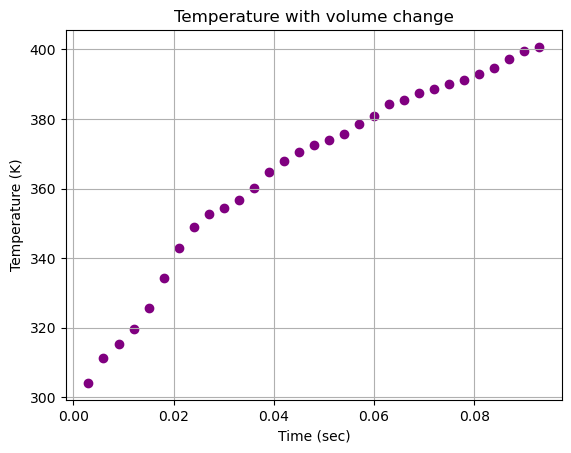
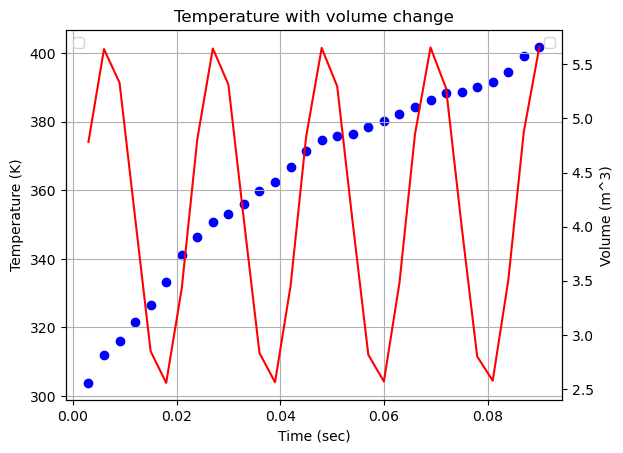
modify the temperature experiment

diff --git a/ideal_gas.py b/ideal_gas.py
@@ -3,7 +3,7 @@ import numpy as np
 import time
 import math
 import tkinter as tk
-ti.init(arch=ti.cpu)  # Alternatively, ti.init(arch=ti.cpu), ti.init(arch=ti.vulkan)
+ti.init(arch=ti.vulkan)  # Alternatively, ti.init(arch=ti.cpu), ti.init(arch=ti.vulkan)
 
 from src.particles_motion import particle_motion, particle_collision, border_collisions, emit_from_drain
 from src.particle_source import add_diffusion_particles
@@ -84,7 +84,7 @@ T_actual = None
 m = 0.032
 Vrms = math.sqrt(3 * R * T_set / m)
 
-heater_E = 1.5 * R * 450
+heater_E = 1.5 * R * 400
 
 pos = np.random.uniform(low=-box_size, high=box_size, size=(n, 3))
 
@@ -99,16 +99,12 @@ v = np.hstack((vx, vy, vz))
 
 a = np.array([0.0, -9.8, 0.0])
 
-# clr = np.zeros((n, 3))
-
 pos = pos.astype(np.float32)
 ball_center.from_numpy(pos)
 
 blue = np.array([[0.0, 0.0, 0.545]])
 red = np.array([[0.6, 0.0, 0.0]])
 
-# window = ti.ui.Window("Taichi Gascd  Simulation on GGUI", (480, 320),
-#                       vsync=True)
 #Enlarge the window
 root = tk.Tk()
 root.withdraw()
@@ -139,7 +135,7 @@ num_emit_total = 0
 num_data = 0
 
 # file = open("data/pt_n1000_v16.txt", "w")
-# file_tmp = open("data/temp-time_shake.txt", "w")
+file_tmp = open("data/temp-time_vshake_400.txt", "w")
 
 #count = 0
 while window.running:
@@ -171,6 +167,7 @@ while window.running:
     # Update particle position and velocity
     pos, v = particle_motion(pos, v, a, dt)
 
+    # collision between particles
     v = particle_collision(pos, v, ball_radius)
 
     if show_drain:
@@ -187,10 +184,12 @@ while window.running:
 
     n_avg = n_avg * (iter - 1)/iter + n / iter
 
+    # collision between particles and the border of the box
     pos, v, P = border_collisions(pos, v, m, dt, xmin, xmax, ymin, ymax, zmin, zmax, add_heater, heater_xmin, heater_xmax, heater_zmin, heater_zmax, heater_E)
     pos = pos.astype(np.float32)
     ball_center.from_numpy(pos)
 
+    # updates the color of particles according to the velocity
     v_abs = get_v_abs(v)
     clr = blue * (1.3 * Vrms - v_abs) + red * (v_abs - Vrms)
     clr = np.clip(clr, 0, 1)
@@ -226,15 +225,15 @@ while window.running:
         print(f"PV / nRT = {(P_avg * V_avg) / (n_avg * R * T_avg)}")
         print(f"P = {P_avg}, T = {T_avg} P/T = {P_avg / T_avg}")
         # file.write(f"{P_avg}, {T_avg}\n")
-        # file_tmp.write(f"{T_avg}, {elapsed_time}\n")
+        file_tmp.write(f"{elapsed_time}, {T_avg}, {V_avg}\n")
         num_data += 1
         if show_drain:
             print(f"{num_emit} particles emit.")
             num_emit_total += num_emit
             num_emit = 0
         
-        if T_avg >= 400:
-            print(f"End at iteration = {num_data}")
+        if T_avg >= 395 or num_data == 50:
+            print(f"End at iteration = {num_data}, final temperature is {T_avg}")
             break
 
         # ymax = box_size * (0.25 + 0.05 * num_data)
@@ -260,9 +259,6 @@ while window.running:
     scene.point_light(pos=(0, 1, 2), color=(1, 1, 1))
     scene.ambient_light((0.5, 0.5, 0.5))
     scene.particles(ball_center, radius=ball_radius, per_vertex_color=ball_color)
-    # test_particle = ti.Vector.field(3, dtype=float, shape=(1,))
-    # test_particle.from_numpy(np.array([[0,box_size,0]]))
-    # scene.particles(test_particle, radius=ball_radius*5, color=(0.0, 0.0, 0.0))
 
     canvas.scene(scene)
     window.show()
@@ -270,4 +266,4 @@ while window.running:
     elapsed_time += dt
 
 # file.close()
-# file_tmp.close()
+file_tmp.close()

diff --git a/src/particles_motion.py b/src/particles_motion.py
@@ -16,9 +16,6 @@ def particle_collision(pos, v, ball_radius):
     delta_y = np.absolute(pos_y - pos_y.T)
     delta_z = np.absolute(pos_z - pos_z.T)
 
-    # dist = np.square(delta_x) + np.square(delta_y) + np.square(delta_z)
-    # min_dist = np.min(dist, axis=1)
-    # closest_neighbor = np.argmin(dist, axis=1)
     collision_condition = (delta_x < 2 * ball_radius) & (delta_y < 2 * ball_radius) & (delta_z < 2 * ball_radius)
     collision_neighbor = np.argwhere(collision_condition)
     _, idx = np.unique(collision_neighbor[:, 0], return_index=True)
@@ -37,16 +34,6 @@ def border_collisions(pos, v, m, dt, xmin, xmax, ymin, ymax, zmin, zmax, add_hea
     v_x = v[:, 0]
     v_y = v[:, 1]
     v_z = v[:, 2]
-
-    # Detect particles hitting the bottom area above the heater
-    # bc_y_min_heater = (pos_y <= ymin) & (pos_x >= heater_xmin) & (pos_x <= heater_xmax) & (pos_z >= heater_zmin) & (pos_z <= heater_zmax)
-    # pos[bc_y_min_heater, 1] = ymin
-    # bc_y_min_heater = bc_y_min_heater & (v_y < 0)
-
-    # # Update velocity for particles hitting the heater area
-    # v[bc_y_min_heater, 1] *= -1
-    # v_abs = get_v_abs(v[bc_y_min_heater])
-    # v[bc_y_min_heater] *= np.sqrt(1 + delta_E / (m * v_abs ** 2))
 
     # bc stands for boundary condition
     bc_x_min = (pos_x <= xmin)
@@ -70,6 +57,7 @@ def border_collisions(pos, v, m, dt, xmin, xmax, ymin, ymax, zmin, zmax, add_hea
     bc_y_min = bc_y_min & (v_y < 0)
     orginal_vy = v[bc_y_min, 1]
     v[bc_y_min, 1] *= -1
+    # handle the heater part
     if add_heater:
         bc_heater = bc_y_min & (pos_x >= heater_xmin) & (pos_x <= heater_xmax) & (pos_z >= heater_zmin) & (pos_z <= heater_zmax)
         new_Ey = heater_E - 0.5 * m * np.square(v[bc_heater, 0]) - 0.5 * m * np.square(v[bc_heater, 2])
@@ -109,5 +97,4 @@ def border_collisions(pos, v, m, dt, xmin, xmax, ymin, ymax, zmin, zmax, add_hea
 
 def emit_from_drain(pos, v, xmin, drain_size):
     drain_condition = (pos[:, 0] <= xmin) & (abs(pos[:, 1]) <= drain_size) & (abs(pos[:, 2]) <= drain_size) & (v[:, 0] < 0)
-    # print(f"shape of drain condition: {drain_condition.shape}")
     return np.argwhere(drain_condition).flatten()
